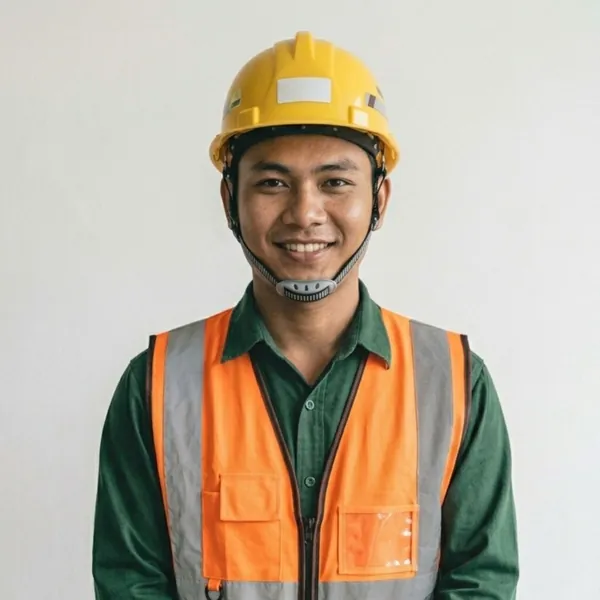
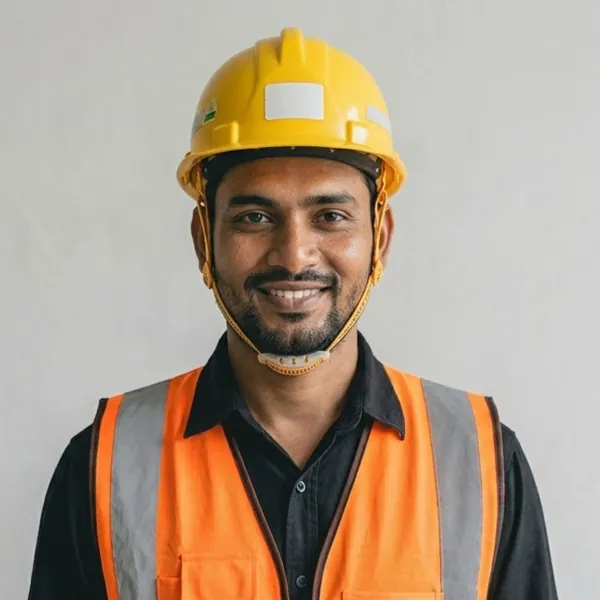
Hero: new India portrait (construction worker)

diff --git a/landing-pages/index.html b/landing-pages/index.html
@@ -111,7 +111,7 @@
       <div class="portrait p2"><img src="images/home/hero-prc.webp" width="600" height="600" alt="Smiling cleaner in a green SuperClean SG uniform, representing workers from PRC" title="Workers from PRC" decoding="async"><span class="tag" aria-hidden="true">PRC</span></div>
       <div class="portrait p3 big"><img src="images/home/hero-myanmar.webp" width="600" height="600" alt="Smiling cleaner in a light blue uniform shirt and headscarf, representing workers from Myanmar" title="Workers from Myanmar" decoding="async"><span class="tag" aria-hidden="true">Myanmar</span></div>
       <div class="portrait p4"><img src="images/home/hero-bangladesh.webp" width="600" height="600" alt="Smiling construction worker in a yellow hard hat and orange safety vest, representing workers from Bangladesh" title="Workers from Bangladesh" decoding="async"><span class="tag" aria-hidden="true">Bangladesh</span></div>
-      <div class="portrait p5"><img src="images/home/hero-india.webp" width="600" height="600" alt="Smiling construction worker in a yellow hard hat and orange safety vest, representing workers from India" title="Workers from India" decoding="async"><span class="tag" aria-hidden="true">India</span></div>
+      <div class="portrait p5"><img src="images/home/hero-india.webp" width="600" height="600" alt="Smiling construction worker in a yellow hard hat and orange safety vest over a black shirt, representing workers from India" title="Workers from India" decoding="async"><span class="tag" aria-hidden="true">India</span></div>
     </div>
   </div>
 

diff --git a/CLAUDE.md b/CLAUDE.md
@@ -15,7 +15,7 @@ landing-pages/        THE ONLY FOLDER THAT GETS DEPLOYED
   images/home/*.webp    homepage photos
 process/              design-system.html (internal only, never deployed) + design-system-img/ + snippets/
 scripts/python/       capture.py · mobile_audit.py · ds_shots.py · build_preview.py · strips.py
-output/               backups/v1 … v39 and screenshots: local only, ignored by git
+output/               backups/v1 … v40 and screenshots: local only, ignored by git
 ```
 A new page would go in `landing-pages/<page-slug>/index.html`. Nothing else belongs at the root.
 
